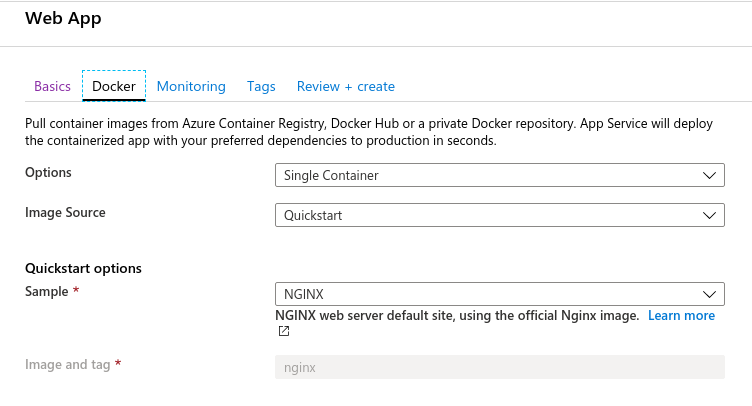
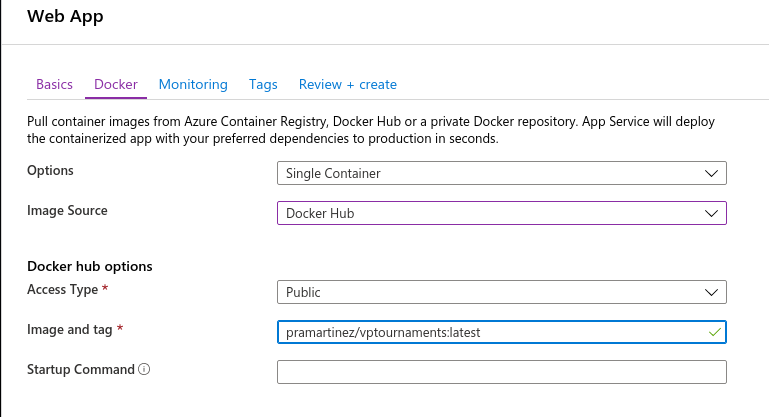
terminada documentacion

diff --git a/docs/docker_azure.md b/docs/docker_azure.md
@@ -7,12 +7,14 @@ La idea es que nuestra imagen de Docker de nuestro microservicio esté disponibl
 
 Tenemos que indicar que se publica desde un contenedorde Docker. Además, es importante crear otro plan de servicio de aplicaciones porque si no, nos da un fallo.
 
-- Luego indicamos la configuración de Docker:  
+- Luego indicamos la configuración de Docker rellenando los siguientes apartados:  
 ![](images/dazure2.png){width=50%}
-
 
 - Cuando todo esté listo le pulsamos a revisar y crear y veríamos que se comienza a realizar el despliegue. 
 ![](images/dazure3.png){width=50%}  
+
+- Es importante comprobar en la configuración del contenedor que está marcado el despliegue continuo:  
+![](images/dazure88.png)
 
 - Ya estaría realizado el despliegue completo:  
 ![](images/dazure5.png){width=50%}  
